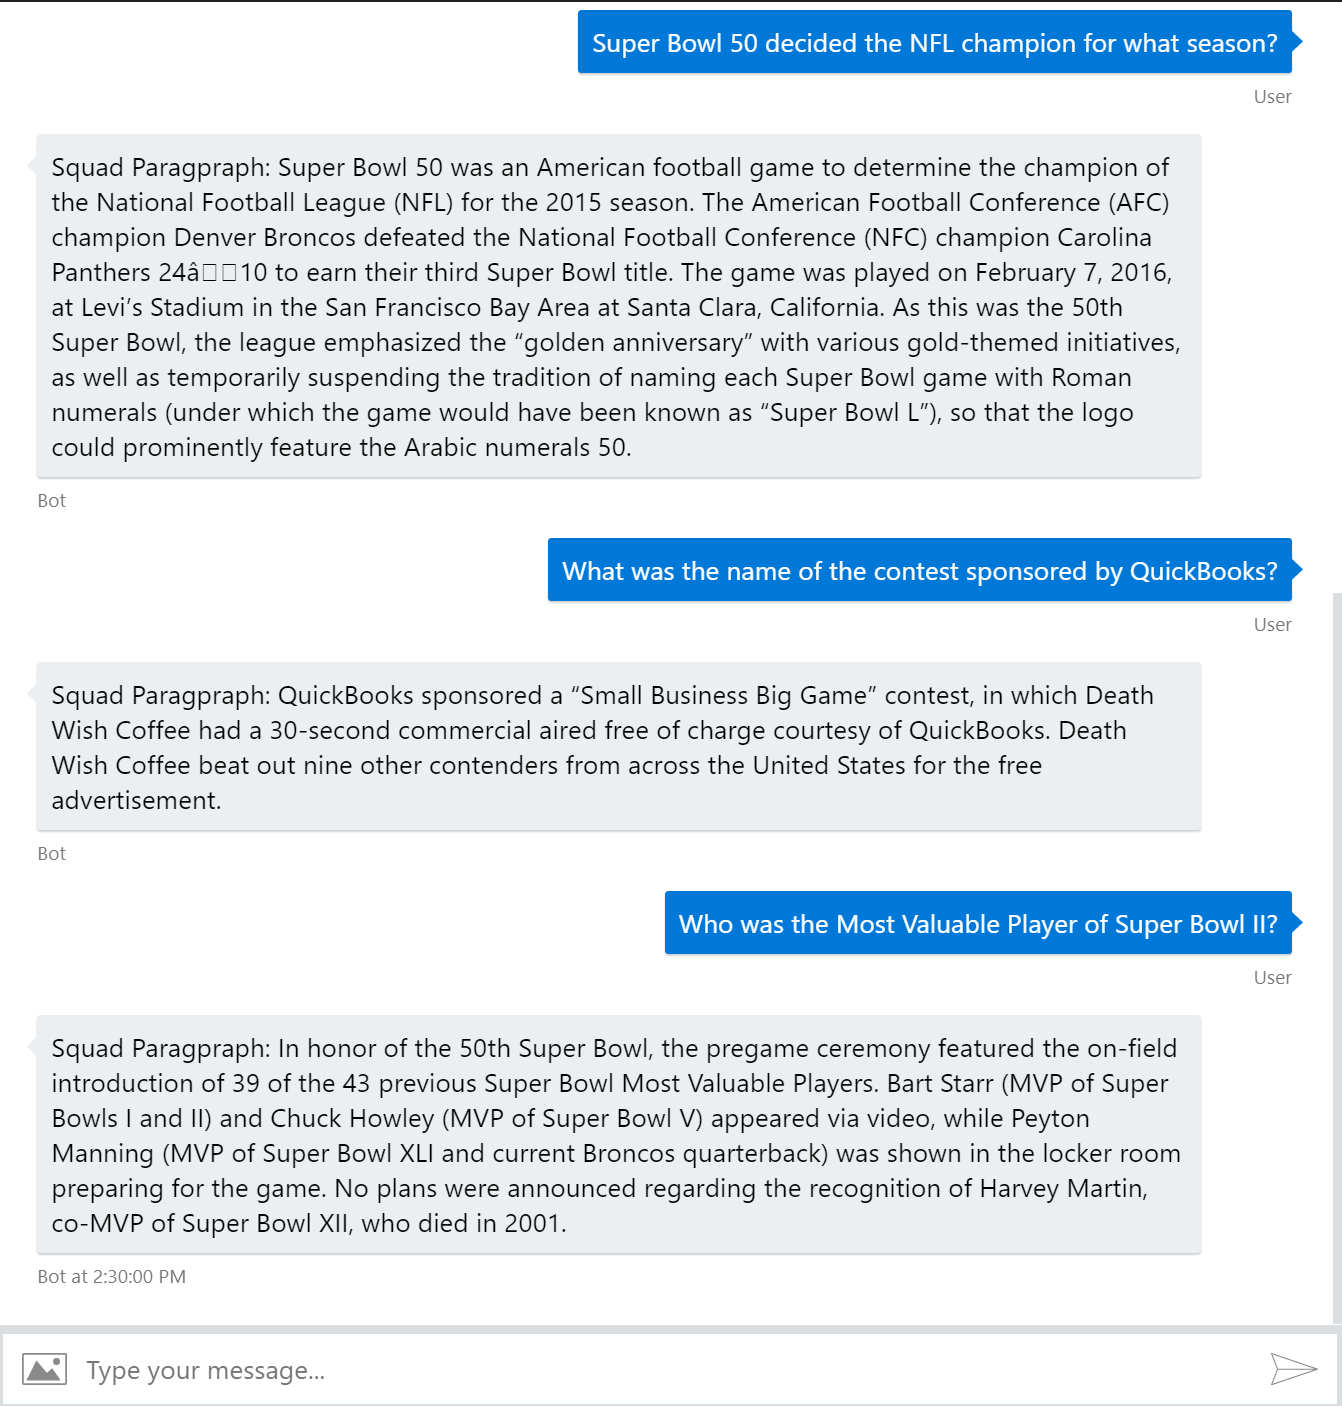
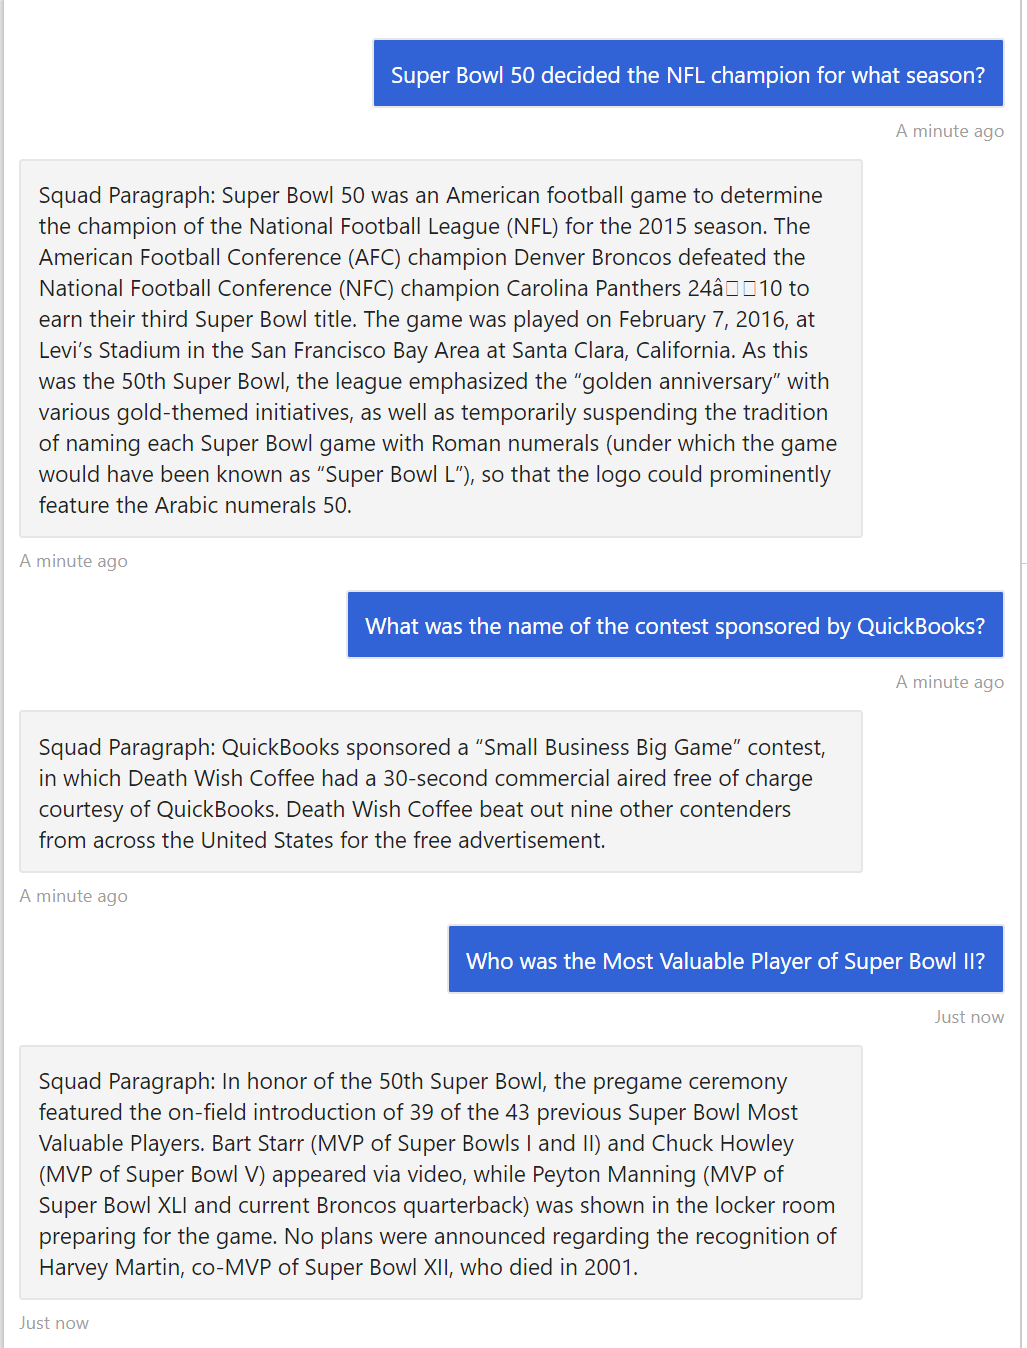
Solution is updated to 4.3.2 but still uses bot configuration file.
Solution is updated to 4.3.2 but still uses bot configuration file.

diff --git a/Botv4AzureSearch/wwwroot/default.htm b/Botv4AzureSearch/wwwroot/default.htm
@@ -4,7 +4,7 @@
 <head>
     <meta charset="utf-8">
     <meta name="viewport" content="width=device-width, initial-scale=1">
-    <title>Echo bot with counter sample</title>
+    <title>Azure Search with SQuAD Dataset</title>
     <style>
         body {
             margin: 0px;

diff --git a/Botv4AzureSearch/Dialogs/StartDialog.cs b/Botv4AzureSearch/Dialogs/StartDialog.cs
@@ -53,7 +53,7 @@ namespace Botv4AzureSearch.Dialogs
 
             foreach (var res in searchResults.Results)
             {
-                await turnContext.SendActivityAsync($"Squad Paragpraph: {res.Document.paragraph_text}");
+                await turnContext.SendActivityAsync($"Squad Paragraph: {res.Document.paragraph_text}");
             }
         }
     }
